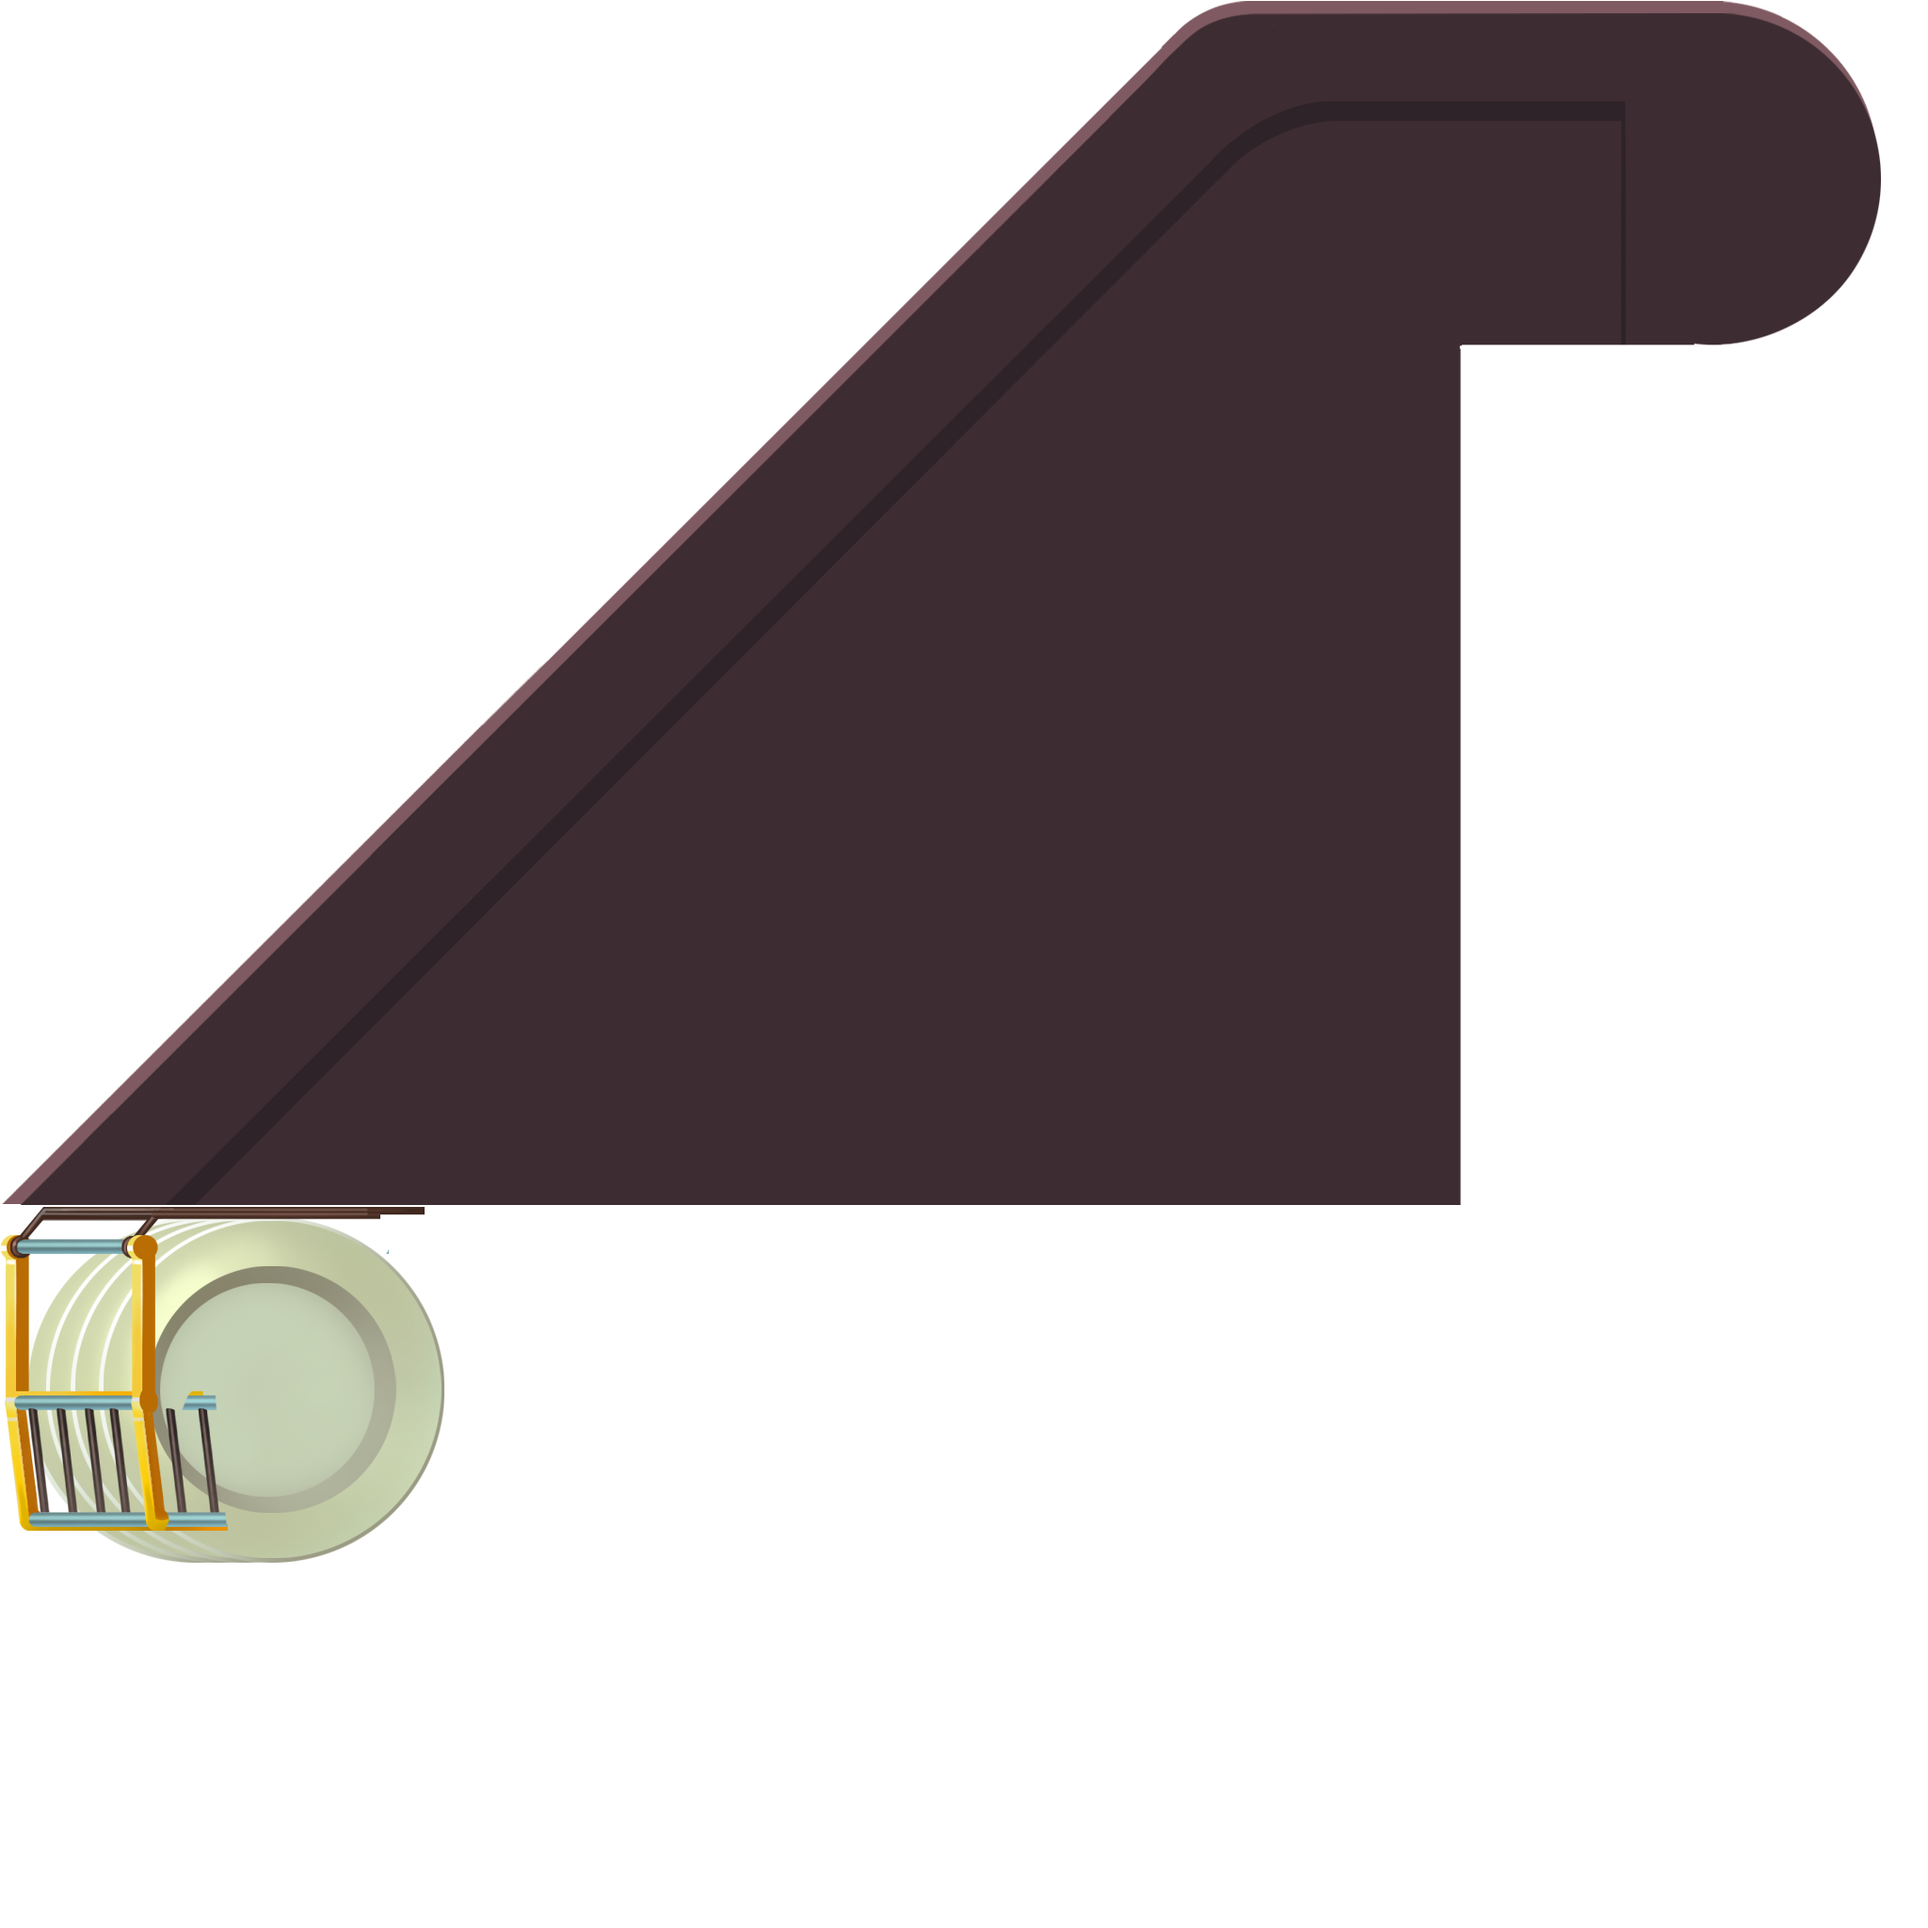
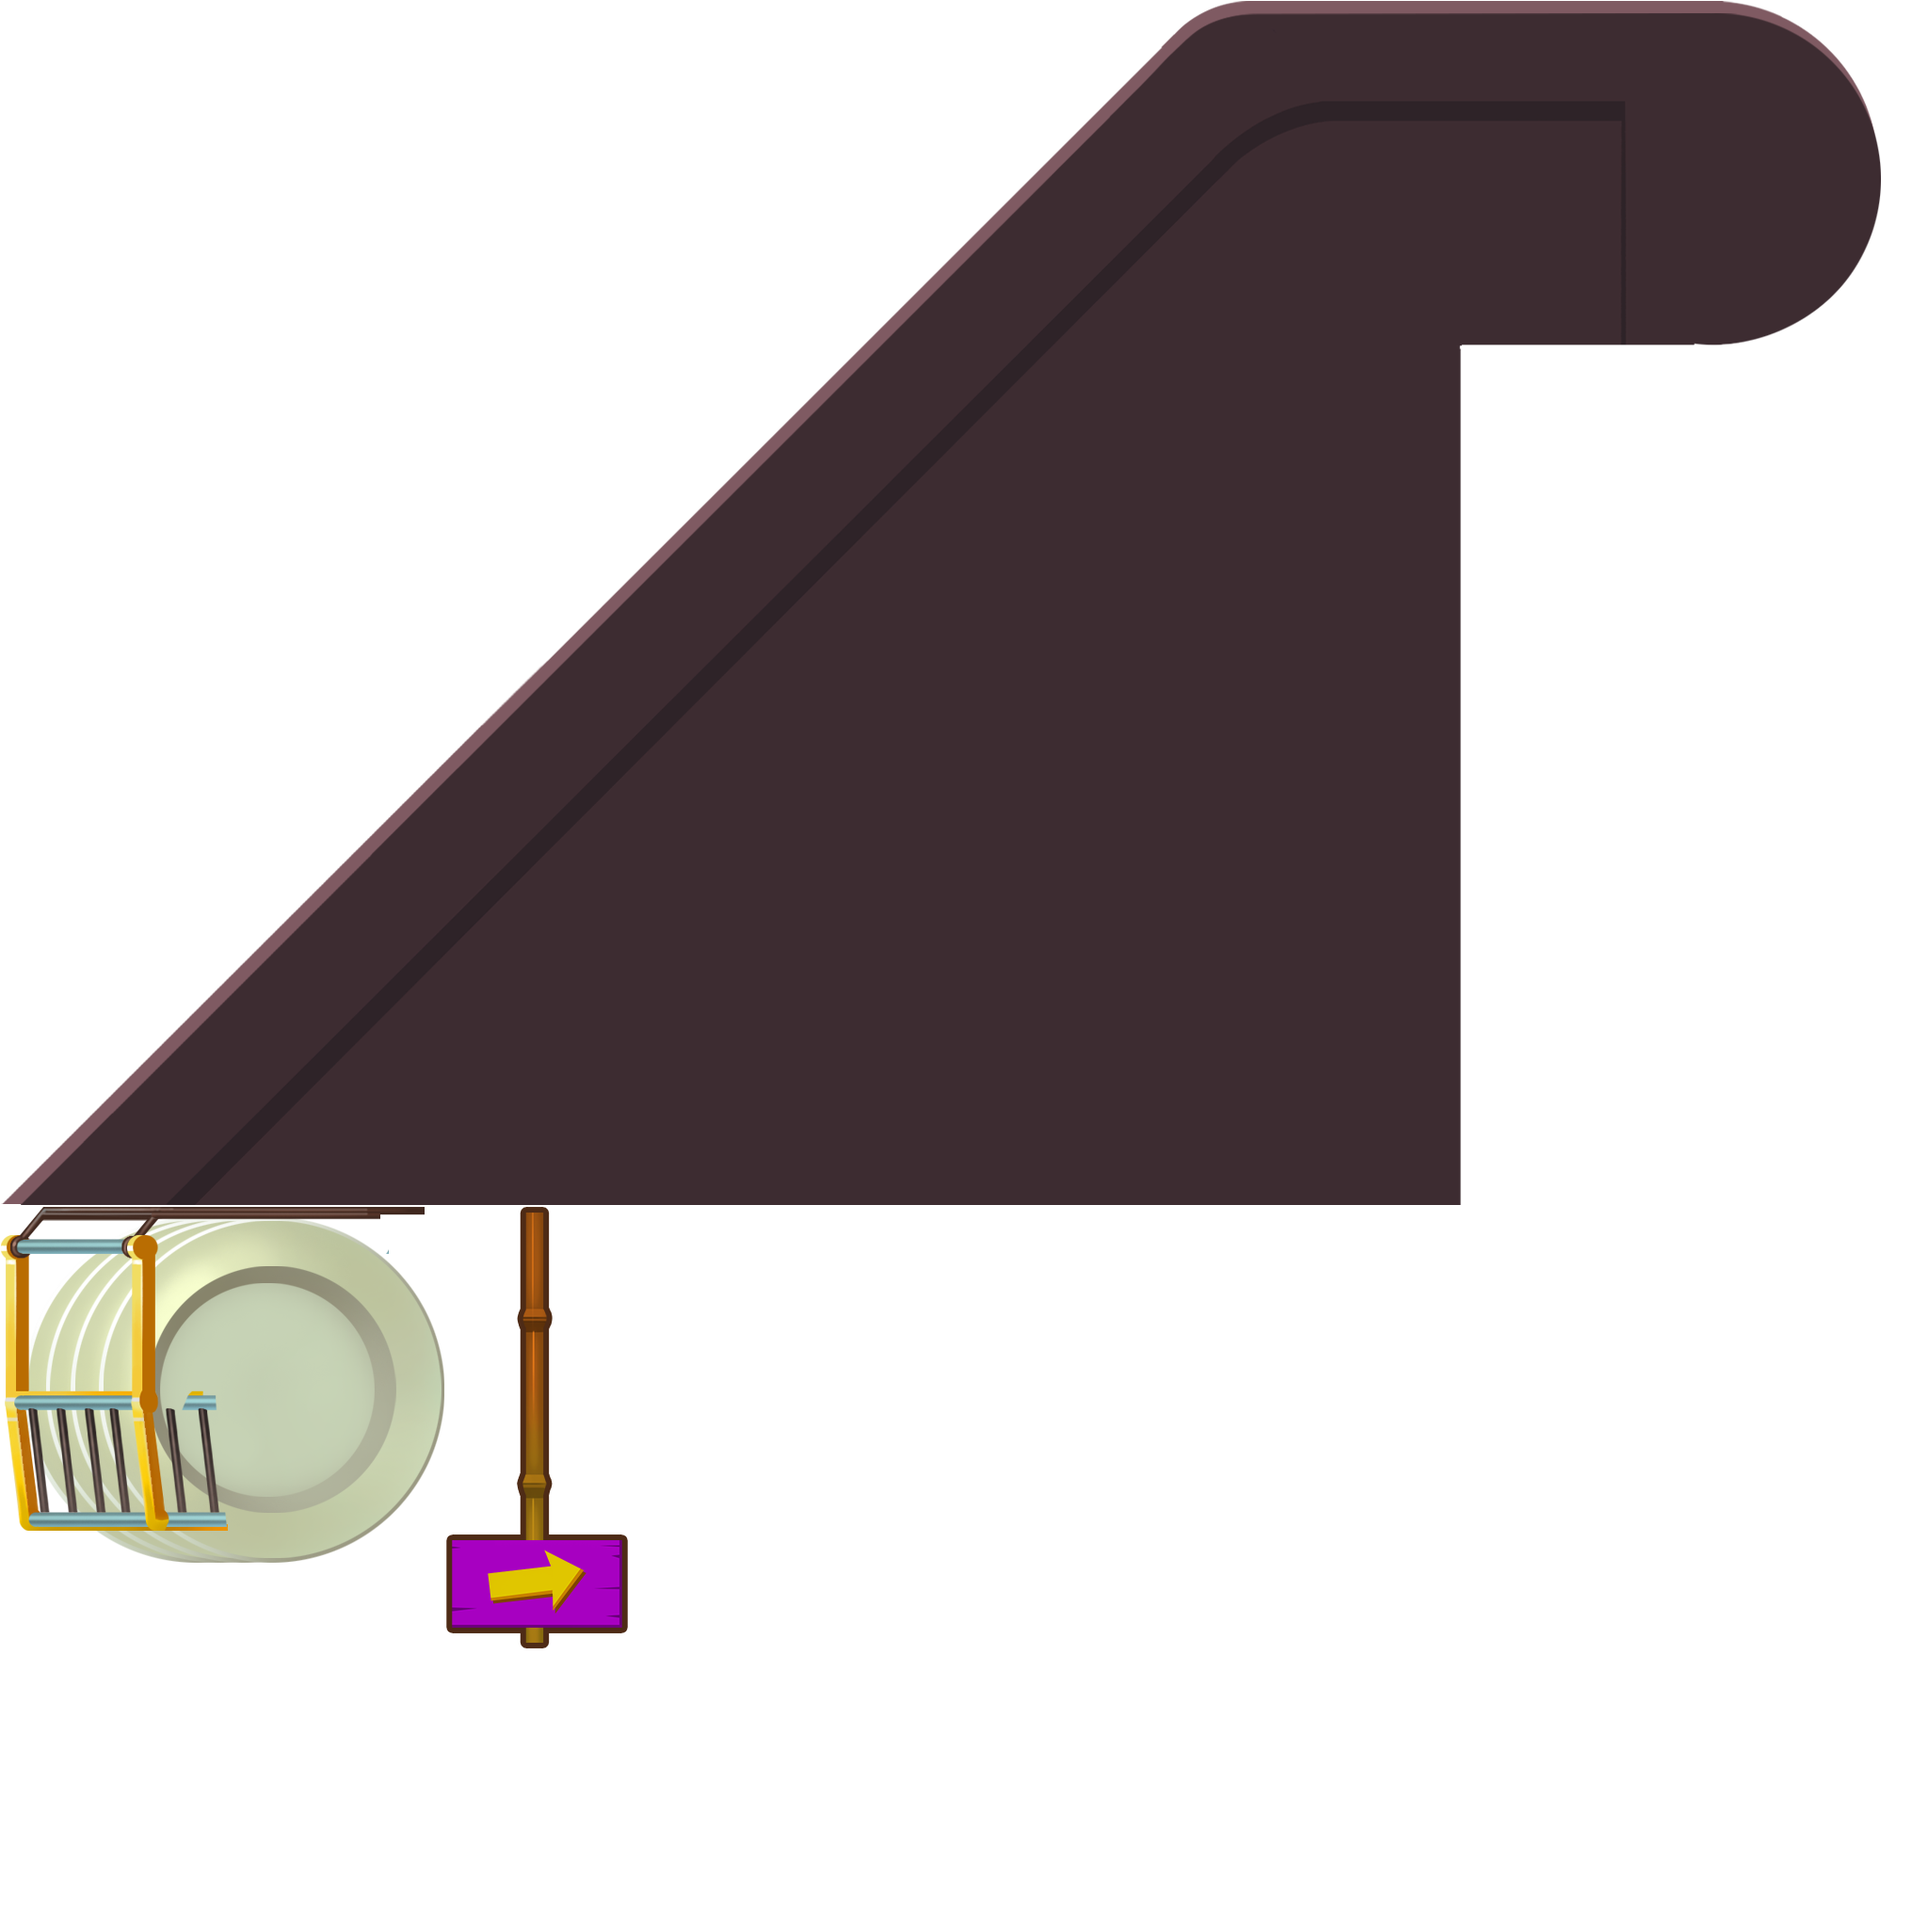
a

Changed region(s): [[0.2188, 0.625, 0.3438, 0.875]]

diff --git a/Jump/src/game/Ladder.ts b/Jump/src/game/Ladder.ts
@@ -80,7 +80,6 @@ class Ladder extends BodyObj{
                 bp.scaleX = bp.scaleY = Main.config.gameConfig.factor / 80;
 
                 container.addChild(bp);  
-
             }
         }
 
@@ -110,11 +109,27 @@ class Ladder extends BodyObj{
             
             let bp:egret.Bitmap = new egret.Bitmap(tex);
 
-            bp.y = -(Main.config.gameConfig.unitNum + 1.2) * Main.config.gameConfig.factor * 2;
+            bp.y = -Main.config.gameConfig.unitNum * Main.config.gameConfig.unitHeight * Main.config.gameConfig.factor;
 
-            bp.scaleX = bp.scaleY = Main.config.gameConfig.factor / 80;
+            bp.x = 50 * Main.config.gameConfig.factor / 40;//hard code
+
+            bp.scaleY = Main.config.gameConfig.unitNum * Main.config.gameConfig.unitHeight * Main.config.gameConfig.factor / bp.height;
+
+            bp.scaleX = bp.scaleY * Main.config.gameConfig.unitWidth / Main.config.gameConfig.unitHeight;
 
             container.addChild(bp);
+
+            tex = RES.getRes("game_json.terminal1");
+
+            ladder.terminal = new egret.Bitmap(tex);
+
+            ladder.terminal.scaleX = ladder.terminal.scaleY = Main.config.gameConfig.factor / 160;
+
+            ladder.terminal.x = ((Main.config.gameConfig.unitNum - 1) * Main.config.gameConfig.unitWidth + Main.config.gameConfig.finalLadderXFix) * Main.config.gameConfig.factor - ladder.terminal.width * ladder.terminal.scaleX * 0.5;
+
+            ladder.terminal.y = -Main.config.gameConfig.unitNum * Main.config.gameConfig.unitHeight * Main.config.gameConfig.factor - ladder.terminal.height * ladder.terminal.scaleY;
+
+            container.addChild(ladder.terminal);
 
             ladder.displays = [container];
 
@@ -169,6 +184,8 @@ class Ladder extends BodyObj{
 
         return ladder;
     }
+
+    public terminal:egret.Bitmap;
 
     public update(_x:number):void{
 

diff --git a/Jump/src/game/Game.ts b/Jump/src/game/Game.ts
@@ -118,10 +118,10 @@ class Game extends egret.DisplayObjectContainer {
 
         this.overCallBack = _overCallBack;
 
-        if(Game.stageConfig.maxLevel > 0){
+        // if(Game.stageConfig.maxLevel > 0){
 
-            Terminal.create(this.otherContainer, Game.stageConfig.maxLevel);
-        }
+        //     Terminal.create(this.otherContainer, Game.stageConfig.maxLevel);
+        // }
     }
 
     private pause():void{
@@ -406,10 +406,10 @@ class Game extends egret.DisplayObjectContainer {
 
         Item.update(_dt);
 
-        if(Game.stageConfig.maxLevel > 0){
+        // if(Game.stageConfig.maxLevel > 0){
 
-            Terminal.update();
-        }
+        //     Terminal.update();
+        // }
 
         if(Enemy.enemies.length < Game.stageConfig.maxEnemyNum && Math.random() < Game.stageConfig.enemyPropProbability * dt * 0.001){
 
@@ -524,7 +524,7 @@ class Game extends egret.DisplayObjectContainer {
 
         Item.reset();
 
-        Terminal.reset();
+        // Terminal.reset();
 
         this.bestScore = 0;
 

diff --git a/Jump/src/Config.ts b/Jump/src/Config.ts
@@ -71,8 +71,6 @@ class GameConfig{
 
     public unitNum:number = 20;
 
-    public ladderChangeUnitNum:number = 1;
-
     public ladderChangeUnitFix:number = 2;
 
     public humanLength:number = 0.7;
